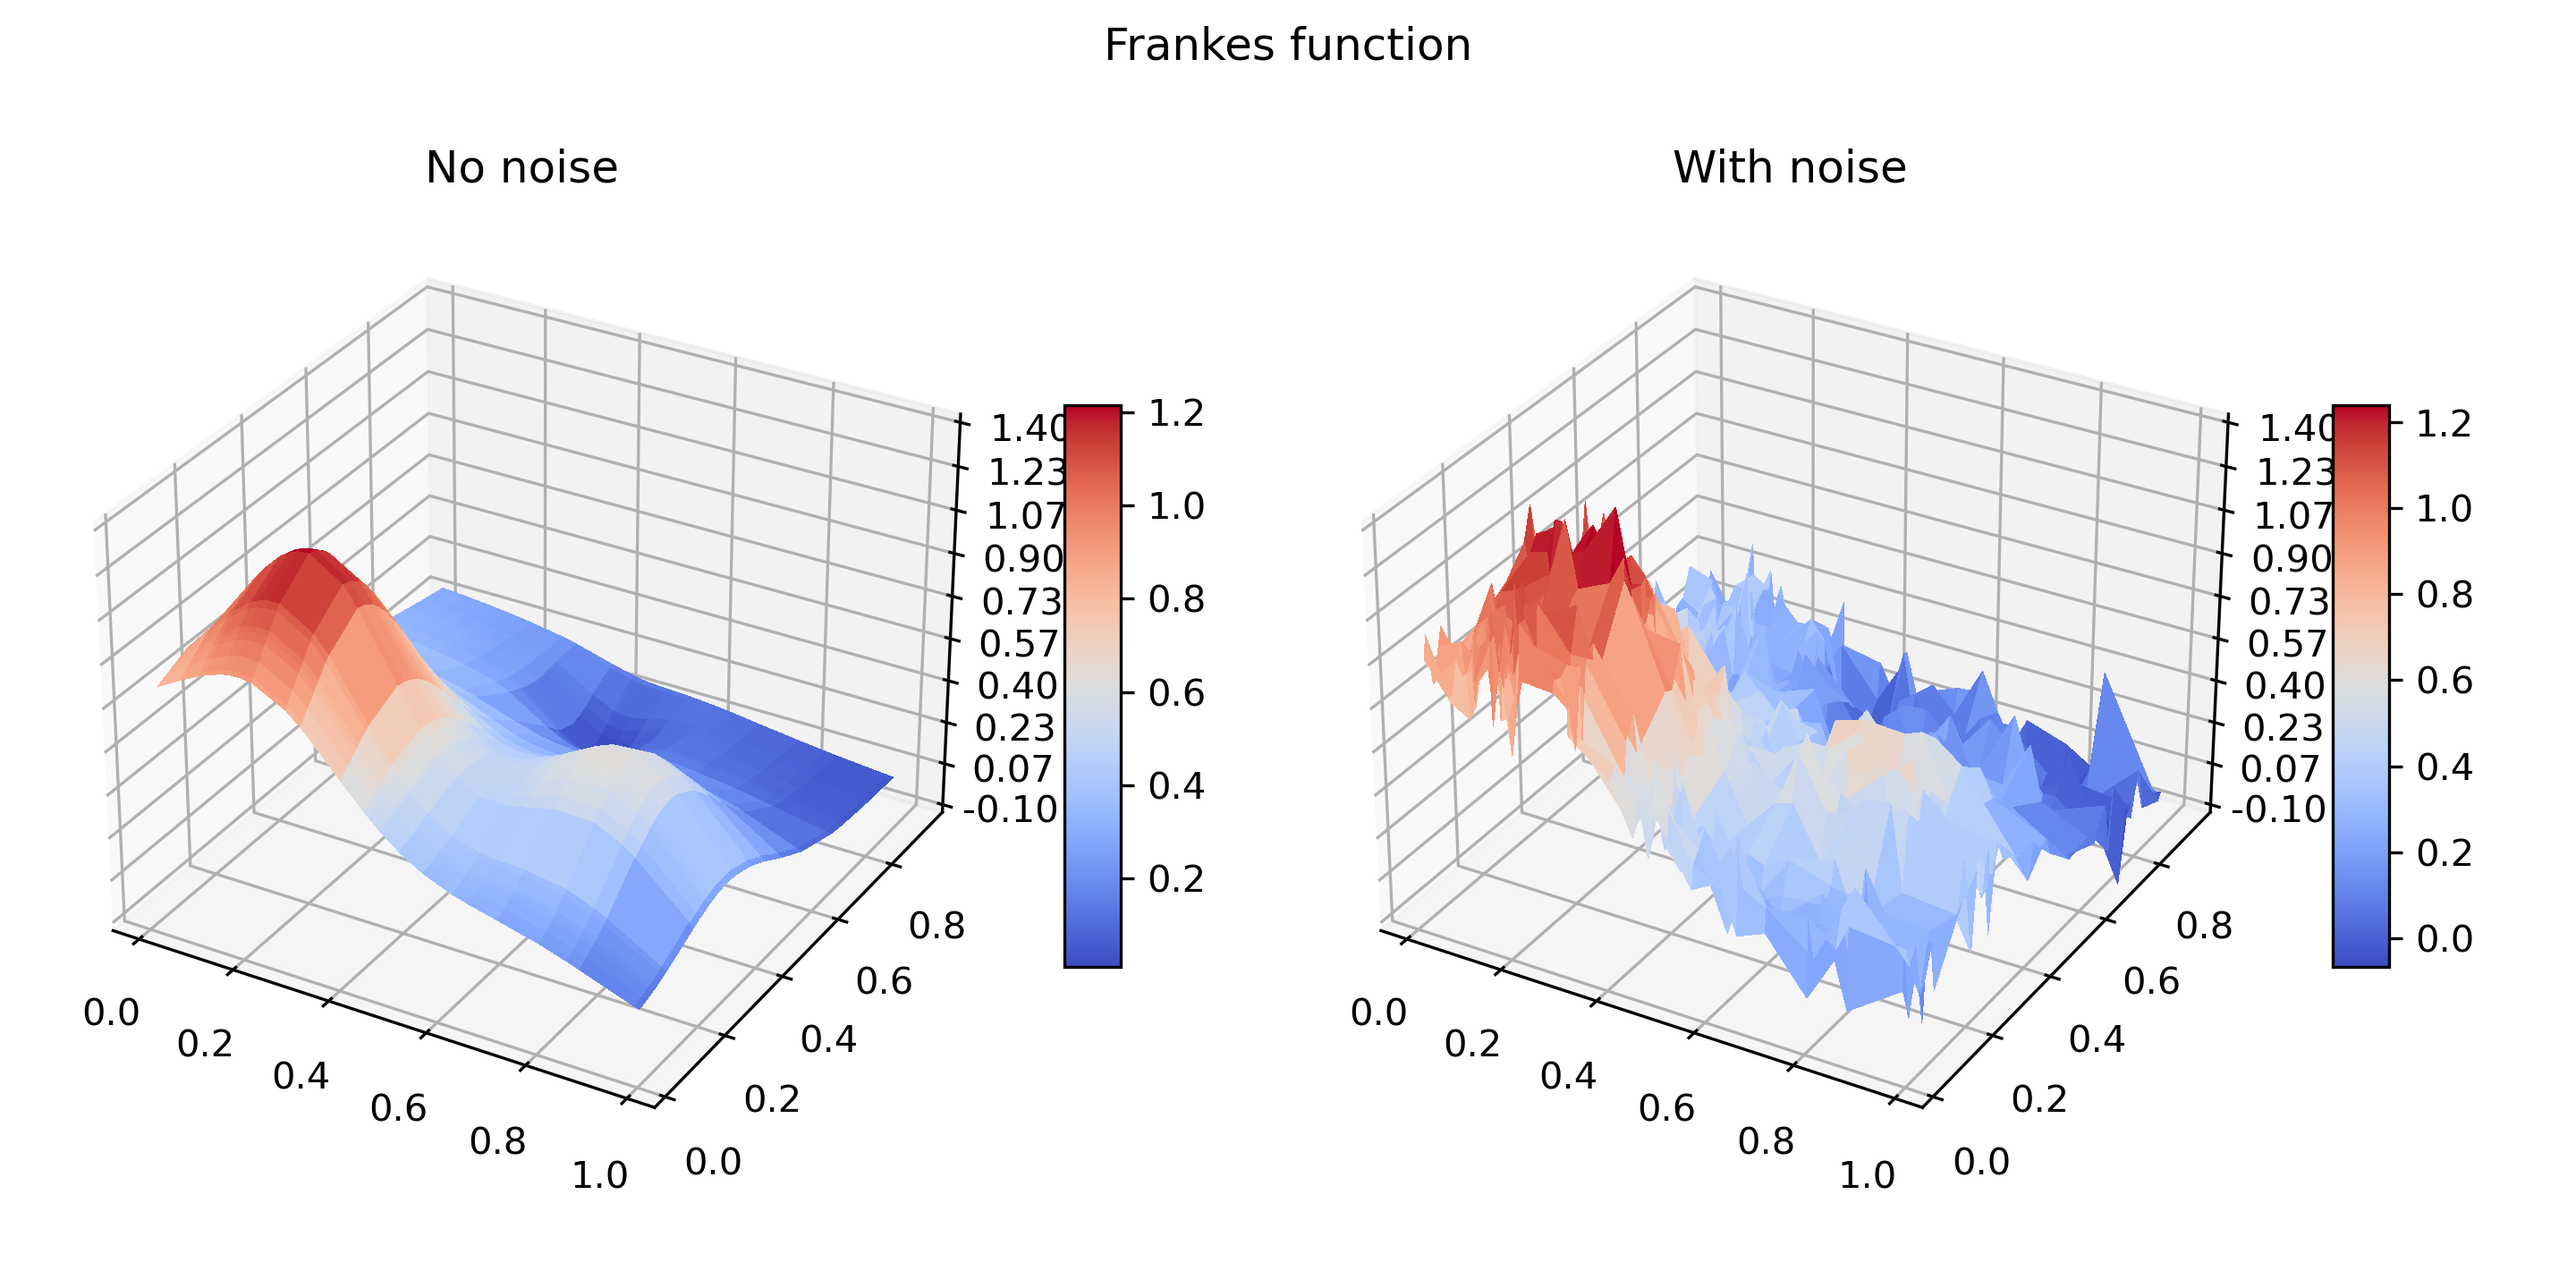
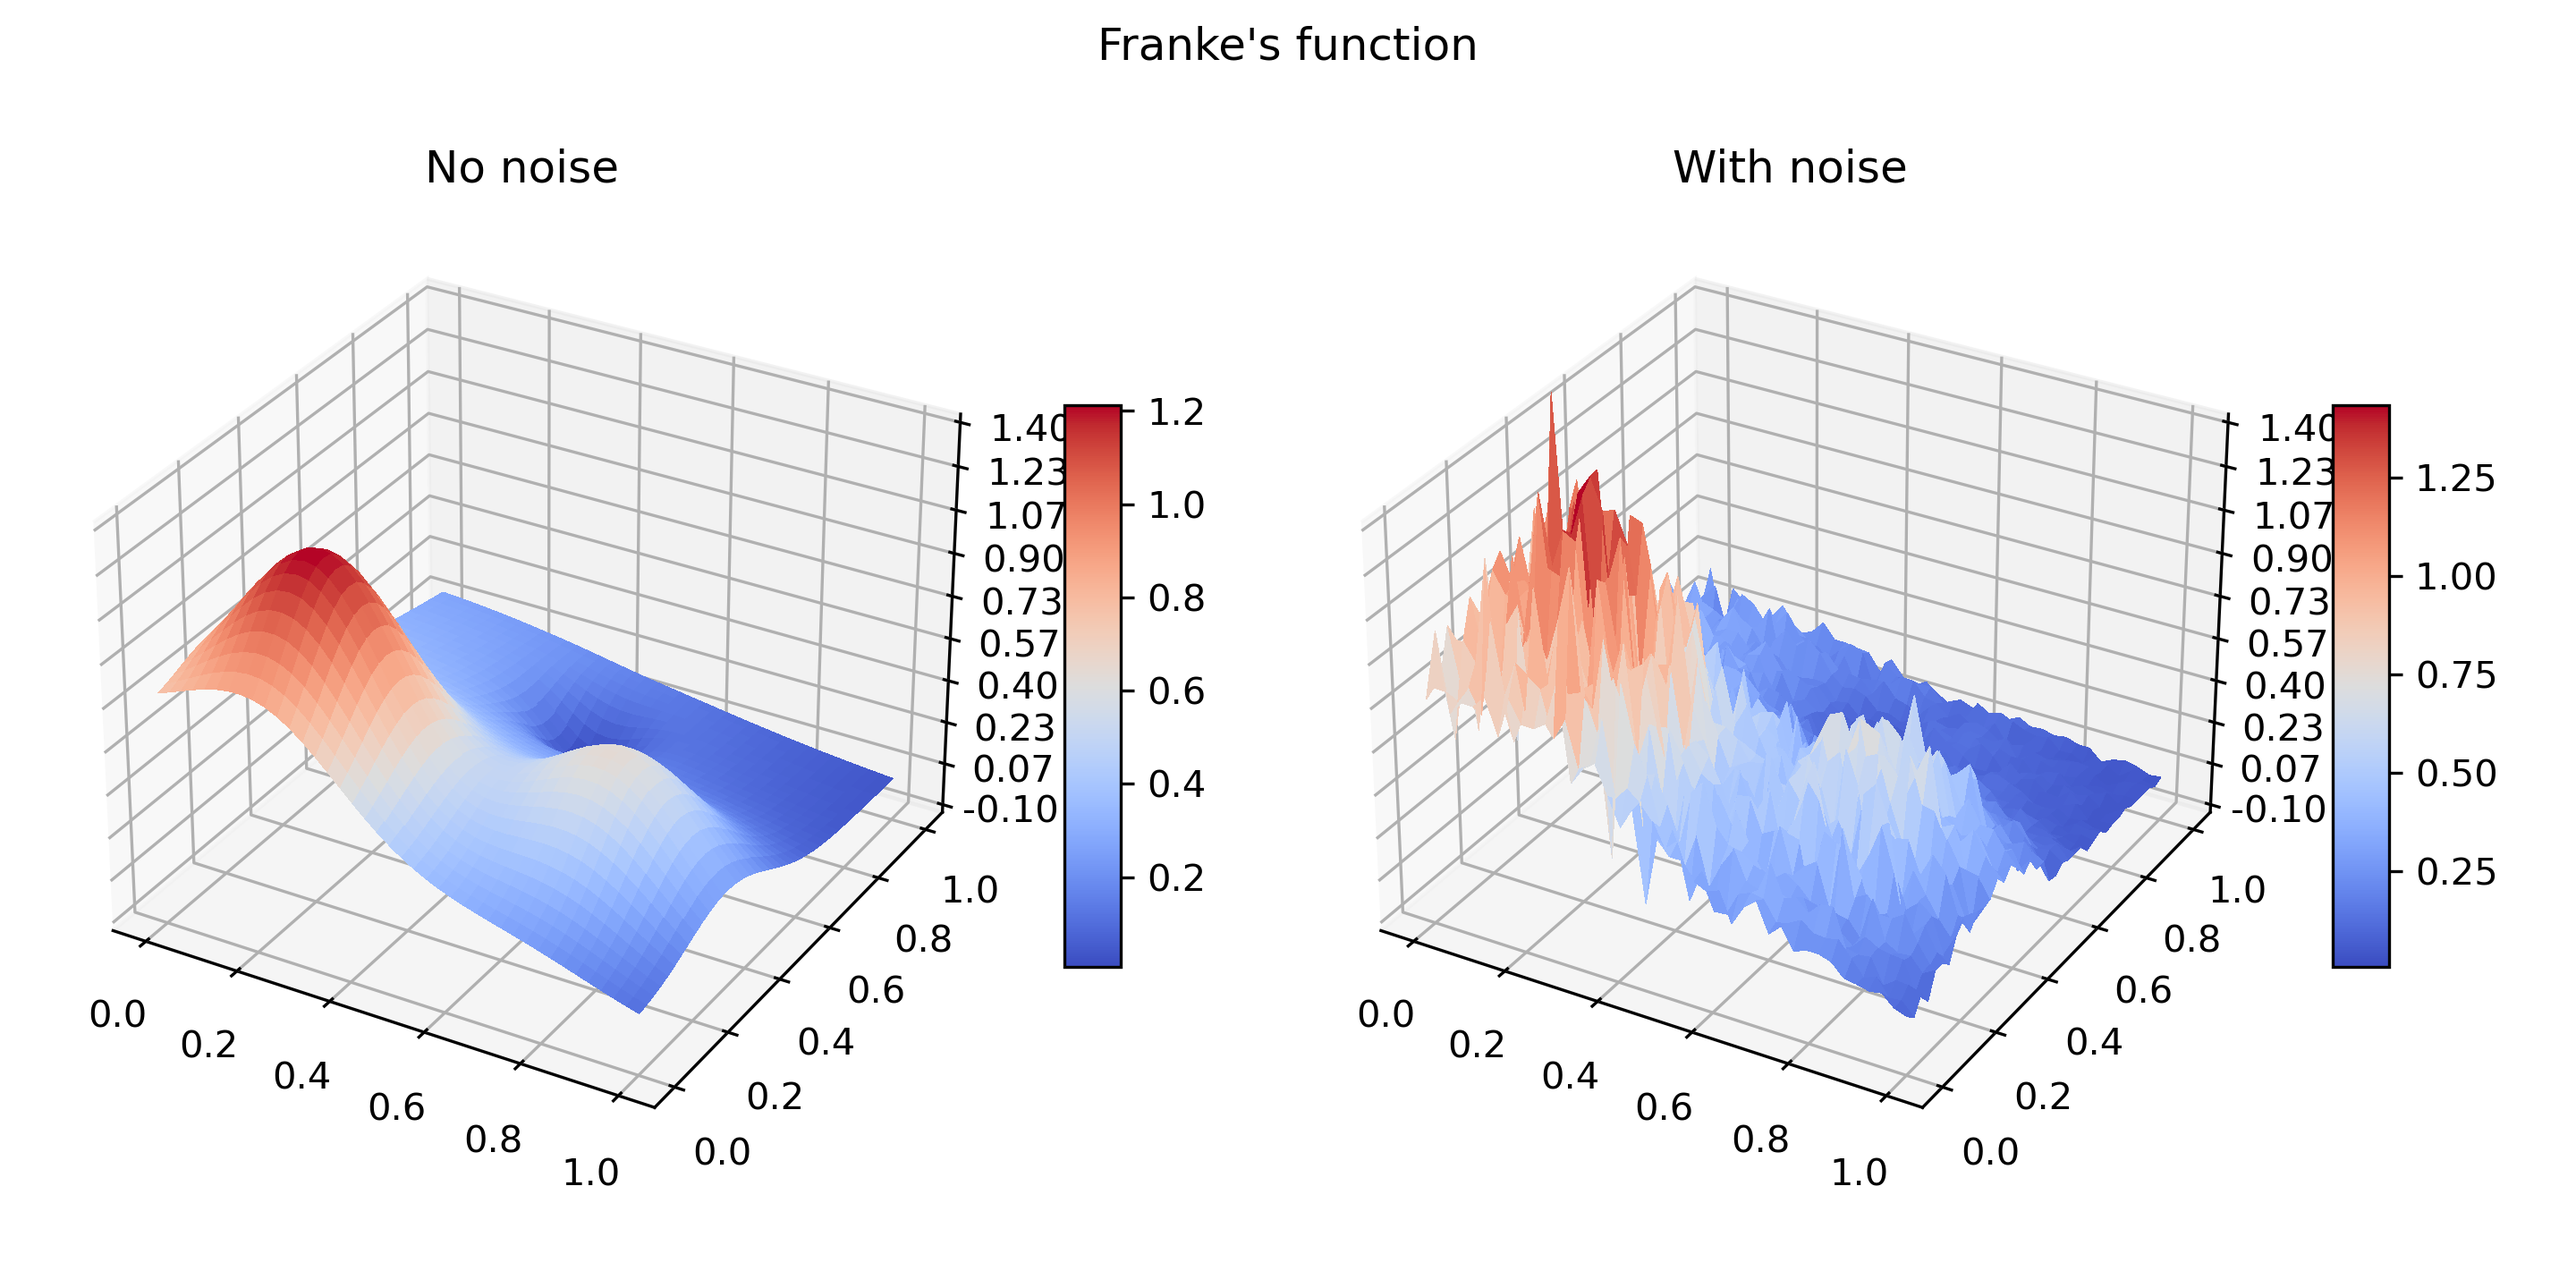
OLS plotting and plots added

diff --git a/Project1/src_final/OLSRegression.py b/Project1/src_final/OLSRegression.py
@@ -21,6 +21,7 @@ def plotScores(
     savePlots: bool = False,
     showPlots: bool = True,
     figsPath: Path = Path(".").parent,
+    maxDim: int = 15,
 ) -> None:
     """Plots MSE_train, MSE_test, and R2 values as a function of polynomial degree.
 
@@ -46,7 +47,7 @@ def plotScores(
         figsPath (Path):
             Where to save files to
     """
-    xVals = [i + 1 for i in range(data.maxDim)]
+    xVals = [i + 1 for i in range(maxDim)]
 
     color = "tab:red"
     plt.xlabel("Polynomial degree")
@@ -66,11 +67,14 @@ def plotScores(
     plt.legend()
 
     if savePlots:
-        plt.savefig(data.figs / f"{methodname}_{data.maxDim}_MSE.png", dpi=300)
+        plt.savefig(figsPath / f"{methodname}_{data.maxDim}_MSE.png", dpi=300)
     if showPlots:
         plt.show()
-    plt.clf()
+    plt.close()
+
     color = "tab:blue"
+    plt.xlabel("Polynomial degree")
+    plt.xticks(xVals)
     plt.ylabel("$R^2$")
     plt.plot(xVals, R2s, label="$R^2$ score", color=color)
 
@@ -84,10 +88,10 @@ def plotScores(
         plt.savefig(figsPath / f"{methodname}_{data.maxDim}_R2.png", dpi=300)
     if showPlots:
         plt.show()
-    plt.clf()
+    plt.close()
 
 
-def OLS_train_test(data: Data, **kwargs) -> None:
+def OLS_train_test(data: Data, maxDim: int, **kwargs) -> None:
     """Validation set for OLS.
 
     inputs:
@@ -95,12 +99,12 @@ def OLS_train_test(data: Data, **kwargs) -> None:
         **kwargs: savePlot, showPlots, figsPath, ...
     """
     betas = []
-    MSETrain = np.zeros(data.maxDim)
-    MSETest = np.zeros(data.maxDim)
-    R2Scores = np.zeros(data.maxDim)
+    MSETrain = np.zeros(maxDim)
+    MSETest = np.zeros(maxDim)
+    R2Scores = np.zeros(maxDim)
 
-    pbar = tqdm(total=data.maxDim, desc="OLS MSEs")
-    for dim in range(data.maxDim):
+    pbar = tqdm(total=maxDim, desc="OLS MSEs")
+    for dim in range(maxDim):
         model = OLS()
         X_train = model.create_X(data.x_train, data.y_train, dim)
         X_test = model.create_X(data.x_test, data.y_test, dim)
@@ -116,8 +120,8 @@ def OLS_train_test(data: Data, **kwargs) -> None:
         R2Scores[dim] = R2Score(data.z_test, z_pred)
         pbar.update(1)
 
-    plotBeta(betas, "OLS", **kwargs)
-    plotScores(data, MSETrain, MSETest, R2Scores, "OLS", **kwargs)
+    plotBeta(betas, r"$\beta$", "OLS", **kwargs)
+    plotScores(data, MSETrain, MSETest, R2Scores, "OLS", maxDim=maxDim, **kwargs)
 
 
 def plot_Bias_VS_Variance(
@@ -153,22 +157,24 @@ def plot_Bias_VS_Variance(
         n_bootstraps (int):
             Optional, default is 1000. Number of random samples to generate using bootstrapping
     """
-    error, bias, variance = bootstrap_degrees(data, n_bootstraps, OLS())
+    error, bias, variance = bootstrap_degrees(data, n_bootstraps, OLS(), maxDim=maxDim)
     polyDegrees = range(1, maxDim + 1)
 
     if title is None:
         title = "Bias Variance Tradeoff OLS"
 
     plt.plot(polyDegrees, error, label="Error")
-    plt.plot(polyDegrees, bias, label="bias")
+    plt.plot(polyDegrees, bias, label="Bias")
     plt.plot(polyDegrees, variance, label="Variance")
+    plt.xlabel("Polynomial degree")
+    plt.xticks(polyDegrees)
     plt.title(title)
     plt.legend()
     if savePlots:
         plt.savefig(figsPath / f"{'_'.join(title.split())}_{maxDim}.png", dpi=300)
     if showPlots:
         plt.show()
-    plt.clf()
+    plt.close()
 
 
 def bootstrap_vs_cross_val_OLS(
@@ -208,16 +214,21 @@ def bootstrap_vs_cross_val_OLS(
             Optional, default is 1000. Number of random samples to generate using bootstrapping
     """
     polyDegrees = range(1, maxDim + 1)
-    error_kfold, variance_kfold = kfold_score_degrees(data, kfolds=kfolds)
+    error_kfold, variance_kfold = kfold_score_degrees(
+        data, kfolds=kfolds, maxDim=maxDim
+    )
     error_boot, bias_boot, variance_boot = bootstrap_degrees(
-        data, n_bootstraps=n_bootstraps
+        data, n_bootstraps=n_bootstraps, maxDim=maxDim
     )
 
     plt.plot(polyDegrees, error_kfold, "b", label="Kfold CV Error")
     plt.plot(polyDegrees, error_boot, "r--", label="Bootstrap Error")
+    plt.title("Bootstrap vs CV for OLS")
+    plt.xlabel("Polynomial degree")
+    plt.ylabel("Error")
     plt.legend()
     if savePlots:
-        plt.savefig(figsPath / f"Heatmap_OLS_{maxDim}.png", dpi=300)
+        plt.savefig(figsPath / f"Bias_vs_Var_OLS_{maxDim}.png", dpi=300)
     if showPlots:
         plt.show()
-    plt.clf()
+    plt.close()

diff --git a/Project1/src_final/FrankeMain.py b/Project1/src_final/FrankeMain.py
@@ -21,12 +21,13 @@ maxDim = 13
 lambds = np.logspace(-3, 7, 13)
 figsPath = Path(__file__).parent.parent / "figures"
 
-data = FrankeData(40, 0.2, maxDim, savePlots=False, showPlots=False, figsPath=figsPath)
+data = FrankeData(40, 0.2, maxDim, savePlots=True, showPlots=False, figsPath=figsPath)
 
 
 # make franke plot
-def Franke(save=False):
-    data.plotFranke()
+def Franke():
+    data.plotSurface()
+    # data.plotFranke()
 
 
 # THE CLASSIC
@@ -34,12 +35,23 @@ def Franke(save=False):
 
 def OLSAnalysis() -> None:
     "Run all the plots for Ordinary Least Squares"
-    OLS_train_test(data, showPlots=True, savePlots=False, figsPath=figsPath)
+    OLS_train_test(data, savePlots=True, showPlots=False, figsPath=figsPath, maxDim=5)
+    BVData = FrankeData(
+        20, 0.2, maxDim=25, savePlots=True, showPlots=False, figsPath=figsPath
+    )
     plot_Bias_VS_Variance(
-        data, maxDim=maxDim, showPlots=True, savePlots=False, figsPath=figsPath
+        BVData,
+        maxDim=13,
+        showPlots=False,
+        savePlots=True,
+        figsPath=figsPath,
+        title="Few points Bias Variance Tradeoff",
+    )
+    plot_Bias_VS_Variance(
+        data, maxDim=15, savePlots=True, showPlots=False, figsPath=figsPath
     )
     bootstrap_vs_cross_val_OLS(
-        data, maxDim=maxDim, showPlots=True, savePlots=False, figsPath=figsPath
+        data, maxDim=15, savePlots=True, showPlots=False, figsPath=figsPath
     )
 
 
@@ -64,6 +76,6 @@ def LassoAnalysis() -> None:
 # bootstrap_vs_cross_val
 
 if __name__ == "__main__":
-    Franke(False)
+    Franke()
     OLSAnalysis()
     # RidgeAnalysis()

diff --git a/Project1/src/PolynomialLinearRegression.py b/Project1/src/PolynomialLinearRegression.py
@@ -224,7 +224,7 @@ class PolynomialLinearRegression:
             plt.savefig(self.figs / f"{methodname}_{self.maxDim}_MSE.png", dpi=300)
         if self.showPlots:
             plt.show()
-        plt.clf()
+        plt.close()
 
         color = "tab:blue"
         plt.ylabel("$R^2$")
@@ -240,7 +240,7 @@ class PolynomialLinearRegression:
             plt.savefig(self.figs / f"{methodname}_{self.maxDim}_R2.png", dpi=300)
         if self.showPlots:
             plt.show()
-        plt.clf()
+        plt.close()
 
     def OLS(self):
         methodname = "OLS"
@@ -364,7 +364,7 @@ class PolynomialLinearRegression:
             plt.savefig(self.figs / "FrankesFunction.png", dpi=300)
         if self.showPlots:
             plt.show()
-        plt.clf()
+        plt.close()
 
     def lambda_heat_map(self, MSE_test, lmbdas, method):
         """
@@ -410,7 +410,7 @@ class PolynomialLinearRegression:
             plt.savefig(self.figs / f"Heatmap_{method}.png", dpi=300)
         if self.showPlots:
             plt.show()
-        plt.clf()
+        plt.close()
 
 
 if __name__ == "__main__":

diff --git a/Project1/src_final/Data.py b/Project1/src_final/Data.py
@@ -14,13 +14,7 @@ class Data:
 
 
 class FrankeData(Data):
-    """
-    Pourpuse of this class is to hold all of our data.
-    That way we can use the exact same data for all methods.
-    Also it's simple to create a similiar class for the terrain
-    data.
-
-    """
+    "Class for holding all data relevant to Frank's function."
 
     def __init__(
         self,
@@ -154,7 +148,7 @@ class FrankeData(Data):
         # Add a color bar which maps values to colors.
         fig.colorbar(surf, shrink=0.5, aspect=10)
 
-        fig.suptitle("Frankes function")
+        fig.suptitle("Franke's function")
 
         plt.tight_layout()
 
@@ -162,7 +156,7 @@ class FrankeData(Data):
             plt.savefig(self.figsPath / "FrankesFunction.png", dpi=300)
         if self.showPlots:
             plt.show()
-        plt.clf()
+        plt.close()
 
 
 class TerrainData(Data):

diff --git a/Project1/src_final/plotBetas.py b/Project1/src_final/plotBetas.py
@@ -27,7 +27,7 @@ def plotBeta(
         for param in beta:
             plt.scatter(i + 1, param, c="r", alpha=0.5)
 
-    plt.title(title)
+    plt.title(f"{title} for {methodname}")
     plt.xticks([dim + 1 for dim in range(len(betas))])
     plt.xlabel("Polynomial degree")
     plt.ylabel(r"$\beta_i$ value")

diff --git a/Project1/src_final/resampling.py b/Project1/src_final/resampling.py
@@ -25,10 +25,6 @@ def bootstrap_degrees(
     returns:
         (tuple[np.array, np.array, np.array]) of (Error, Bias, Variance)
     """
-    if maxDim is None:
-        print("Warning, maxDim not set")
-        maxDim = 15
-
     polyDegrees = range(1, maxDim + 1)
     n_degrees = len(polyDegrees)
 

diff --git a/Project1/src_final/heatmap.py b/Project1/src_final/heatmap.py
@@ -66,4 +66,4 @@ def create_heatmap(
         plt.savefig(figsPath / f"Heatmap_{title}.png", dpi=300)
     if showPlots:
         plt.show()
-    plt.clf()
+    plt.close()
